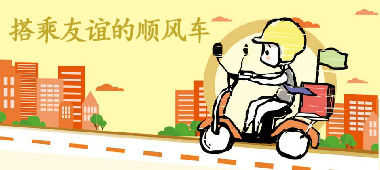
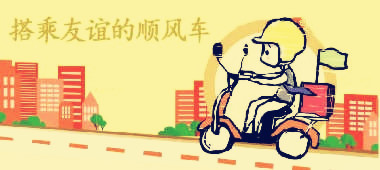
轮播图替换

diff --git a/views/mvc/index.html b/views/mvc/index.html
@@ -30,7 +30,7 @@
         </div>
 
         <div class="item">
-            <img src="/static/images/cat3.jpeg" alt="cat3">
+            <img src="/static/images/ad_img_3.jpg" alt="cat3">
         </div>
 
         <div class="item">
